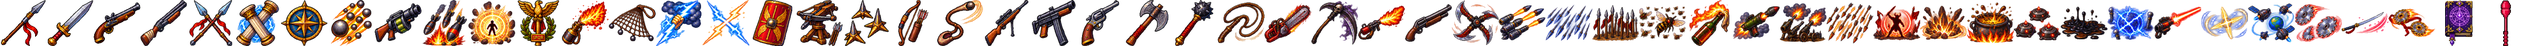
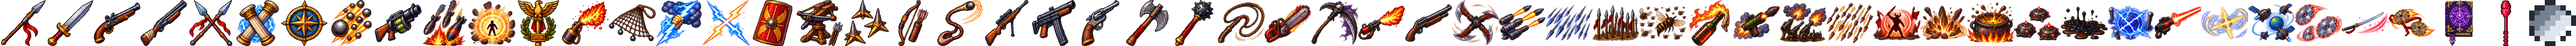
La Petanca: bolas que ruedan hacia donde miras, y el abanico se abre solo
Una bola al nivel 1 y una más en cada subida, hasta diez, con el abanico
abriéndose con ellas hasta los 120 grados clavados del nivel 10. Se gastan cada
tres enemigos al empezar y cada ocho al máximo.

ES LA PRIMERA ARMA QUE APUNTA ADONDE MIRAS. Las demás salen en rumbos fijos de
la brújula o buscan al enemigo más cercano; esta usa el rumbo del jugador, que
es una tercera manera y es lo que la hace ella: colocarse es parte de
dispararla. `patron: 'rumbo'` y una función que pregunta por el jugador en vez
de leer una lista de ángulos.

El abanico no se escribe nivel a nivel: el ángulo ENTRE bolas se queda fijo en
13,3 grados y lo que crece es cuántas hay. Nueve huecos entre las diez del
nivel 10 son 120 grados, y los intermedios abren en proporción sin que haya que
decidir nada.

Y NO ATRAVIESA SIN LÍMITE, aunque "hace daño a todo lo que pille" lo pedía: diez
bolas en 120 grados sin gastarse dejaban el mapa limpio de un disparo y el arma
se quedaba sin decisión ninguna. Con tope, una bola sigue pesando y siguiendo de
largo, pero hay que elegir hacia dónde.

Y DE PASO, UNA HERRAMIENTA QUE LLEVABA ROTA. generar-efectos.ps1 no compilaba en
esta máquina: pedía System.Drawing.Common, que solo existe en PowerShell 7, y
aquí hay 5.1. Lo llamativo es que no se caía — seguía hasta el final y escribía
la ficha del atlas con las medidas, que se calculan en PowerShell y no en C#,
así que el atlas anunciaba dibujos que no estaban en el disco. Ahora elige los
[…]

diff --git a/js/datos/armas.js b/js/datos/armas.js
@@ -1193,6 +1193,53 @@ export const ARMAS = {
               { danyo: 6 }, { danyo: 9, recarga: -0.15 }]
   },
 
+  // --- Petanca -----------------------------------------------------------
+  //
+  // Pedida por Sergio. Bolas de acero que RUEDAN hacia donde miras y van
+  // llevándose por delante lo que pillan. Una al nivel 1 y una más en cada
+  // subida, y el abanico se abre con ellas hasta los 120 grados del nivel 10.
+  //
+  // ES LA ÚNICA ARMA QUE APUNTA ADONDE MIRAS. Las demás salen en rumbos fijos
+  // de la brújula (`patron`) o buscan al enemigo más cercano; esta usa el rumbo
+  // del jugador, que es una tercera manera y es lo que la hace ella: colocarse
+  // es parte de dispararla. Ver RUMBO en sistemas/armas.js.
+  //
+  // EL ABANICO SE ABRE SOLO. `dispersion` es el ángulo ENTRE bolas y se queda
+  // fijo en 13,3 grados; lo que crece es cuántas hay. Con nueve huecos entre
+  // las diez del nivel 10 salen 120 grados clavados, que es lo que pidió, y los
+  // niveles intermedios abren en proporción sin que haya que escribir el ángulo
+  // de cada uno.
+  //
+  // SE GASTAN CADA X ENEMIGOS. Tres al empezar y ocho al máximo: una bola es
+  // una bola, pesa y sigue de largo, pero no barre la pantalla entera. Sin ese
+  // techo —rodando sin gastarse— diez bolas en 120 grados dejaban el mapa
+  // limpio de un disparo y el arma dejaba de tener decisión ninguna.
+  petanca: {
+    nombre: 'Petanca',
+    descripcion: 'Bolas de acero que ruedan hacia donde miras y siguen de largo.',
+    comportamiento: 'direccionFija',
+    patron: 'rumbo',
+    danyo: 16, recarga: 1.3, proyectiles: 1, direcciones: 1,
+    velocidad: 105, alcance: 165, dispersion: 13.3,
+    radio: 6, perforacion: 3, empuje: 130,
+    color: '#c8d4e2', estela: '#5a6470', largoTrazo: 7,
+    spriteProyectil: 'proyPetanca',
+    // RUEDA, no vuela: gira sobre sí misma en el sentido de la marcha. Despacio
+    // —seis radianes por segundo, una vuelta por segundo— porque una bola de
+    // acero rodando por una calzada no da vueltas de shuriken.
+    giroProyectil: 6,
+    niveles: [{},
+              { proyectiles: 1, danyo: 3 },
+              { proyectiles: 1, danyo: 3, perforacion: 1 },
+              { proyectiles: 1, danyo: 4 },
+              { proyectiles: 1, danyo: 3, perforacion: 1 },
+              { proyectiles: 1, danyo: 4, recarga: -0.12 },
+              { proyectiles: 1, danyo: 4, perforacion: 1 },
+              { proyectiles: 1, danyo: 4 },
+              { proyectiles: 1, danyo: 5, perforacion: 1 },
+              { proyectiles: 1, danyo: 6, perforacion: 1, recarga: -0.15 }]
+  },
+
   // --- El arma de Sofi: RainbowMazas -------------------------------------
   //
   // Pedida por Sergio. Suelta mazas en direcciones al azar: una al nivel 1 y

diff --git a/js/sistemas/armas.js b/js/sistemas/armas.js
@@ -310,7 +310,7 @@ const COMPORTAMIENTOS = {
   direccionFija(arma, sis, ctx) {
     const s = arma.stats;
     const j = ctx.jugador;
-    const dirs = direccionesDe(arma, s);
+    const dirs = direccionesDe(arma, s, j);
     const danyo = danyoDe(s, j);
 
     // ABANICO O CARRIL, y la diferencia importa para lo que se dibuja.
@@ -728,6 +728,19 @@ const PATRONES = {
   adelante: [0]
 };
 
+// EL RUMBO DEL JUGADOR, para las armas que disparan HACIA DONDE MIRAS.
+//
+// No es un patrón como los de arriba —esos son rumbos fijos de la brújula— sino
+// uno que se calcula en cada disparo. Va aparte y con nombre propio (`rumbo`)
+// para que `direccionesDe` sepa que tiene que preguntar por el jugador en vez
+// de leer una lista.
+//
+// El rumbo sale de `rumboX`/`rumboY` (ver entidades/jugador.js), que es la
+// última dirección en la que se movió y NO se pone a cero al soltar el mando:
+// parado, un arma de estas sigue apuntando adonde ibas, que es lo que espera
+// quien se detiene a esperar a la horda de frente.
+const RUMBO = [0];
+
 // MÁS BRAZOS DE LOS QUE TIENE EL PATRÓN.
 //
 // Un patrón es una lista fija de rumbos, y eso basta mientras el arma tenga
@@ -750,7 +763,12 @@ const dirsGeneradas = new Float64Array(MAX_DIRECCIONES);
 // Es el mismo apaño que `origenDisparo` unas líneas más arriba, y por lo mismo.
 let nDirs = 0;
 
-function direccionesDe(arma, s) {
+function direccionesDe(arma, s, jugador) {
+  if (arma.def.patron === 'rumbo') {
+    RUMBO[0] = atan2(jugador.rumboY, jugador.rumboX);
+    nDirs = 1;
+    return RUMBO;
+  }
   const patron = PATRONES[arma.def.patron] || PATRONES.horizontal;
   let n = s.direcciones | 0;
   // Sin `direcciones`, o pidiendo menos de las que el patrón ya trae, manda el

diff --git a/manual/manual-jugador.html b/manual/manual-jugador.html
@@ -511,7 +511,7 @@
       <strong>nivel 10</strong>, y cada nivel lo hace más fuerte: más daño, menos
       recarga, más alcance, según lo que sea. Tres <strong>rerolls</strong> por
       partida, por si las cuatro cartas que salen no convencen.</p>
-      <p style="font-size:13px">Hay <strong>59 armas</strong> y no vas a ver ni
+      <p style="font-size:13px">Hay <strong>60 armas</strong> y no vas a ver ni
       la mitad en una partida: de ahí que dos partidas seguidas se jueguen
       distinto. La ambientación va mezclada a propósito —honda balear junto a
       subfusil—, que es una decisión tomada y no un descuido: Mérida es una

diff --git a/README.md b/README.md
@@ -12,7 +12,7 @@ tres armas cada vez, y acaba con la Loba Capitolina.
 [![ES6](https://img.shields.io/badge/JavaScript-m%C3%B3dulos%20ES6-f7df1e?style=flat-square)](#)
 [![Sin dependencias](https://img.shields.io/badge/dependencias-cero-2ea043?style=flat-square)](#)
 [![Sin build](https://img.shields.io/badge/build-ninguno-2ea043?style=flat-square)](#)
-[![Armas](https://img.shields.io/badge/armas-59-e2c27a?style=flat-square)](#)
+[![Armas](https://img.shields.io/badge/armas-60-e2c27a?style=flat-square)](#)
 [![Cooperativo](https://img.shields.io/badge/cooperativo-hasta%204-e2c27a?style=flat-square)](#)
 [![Licencia: GPL v3](https://img.shields.io/badge/licencia-GPLv3-blue?style=flat-square)](LICENSE)
 
@@ -260,7 +260,7 @@ que huyen en vez de perseguir.
 
 ## El arsenal
 
-**59 armas**, tres opciones cada vez que subes de nivel, y evoluciones que piden
+**60 armas**, tres opciones cada vez que subes de nivel, y evoluciones que piden
 un arma al 8 más su pasivo y un cofre de élite.
 
 ![Arsenal](docs/arsenal.png)
